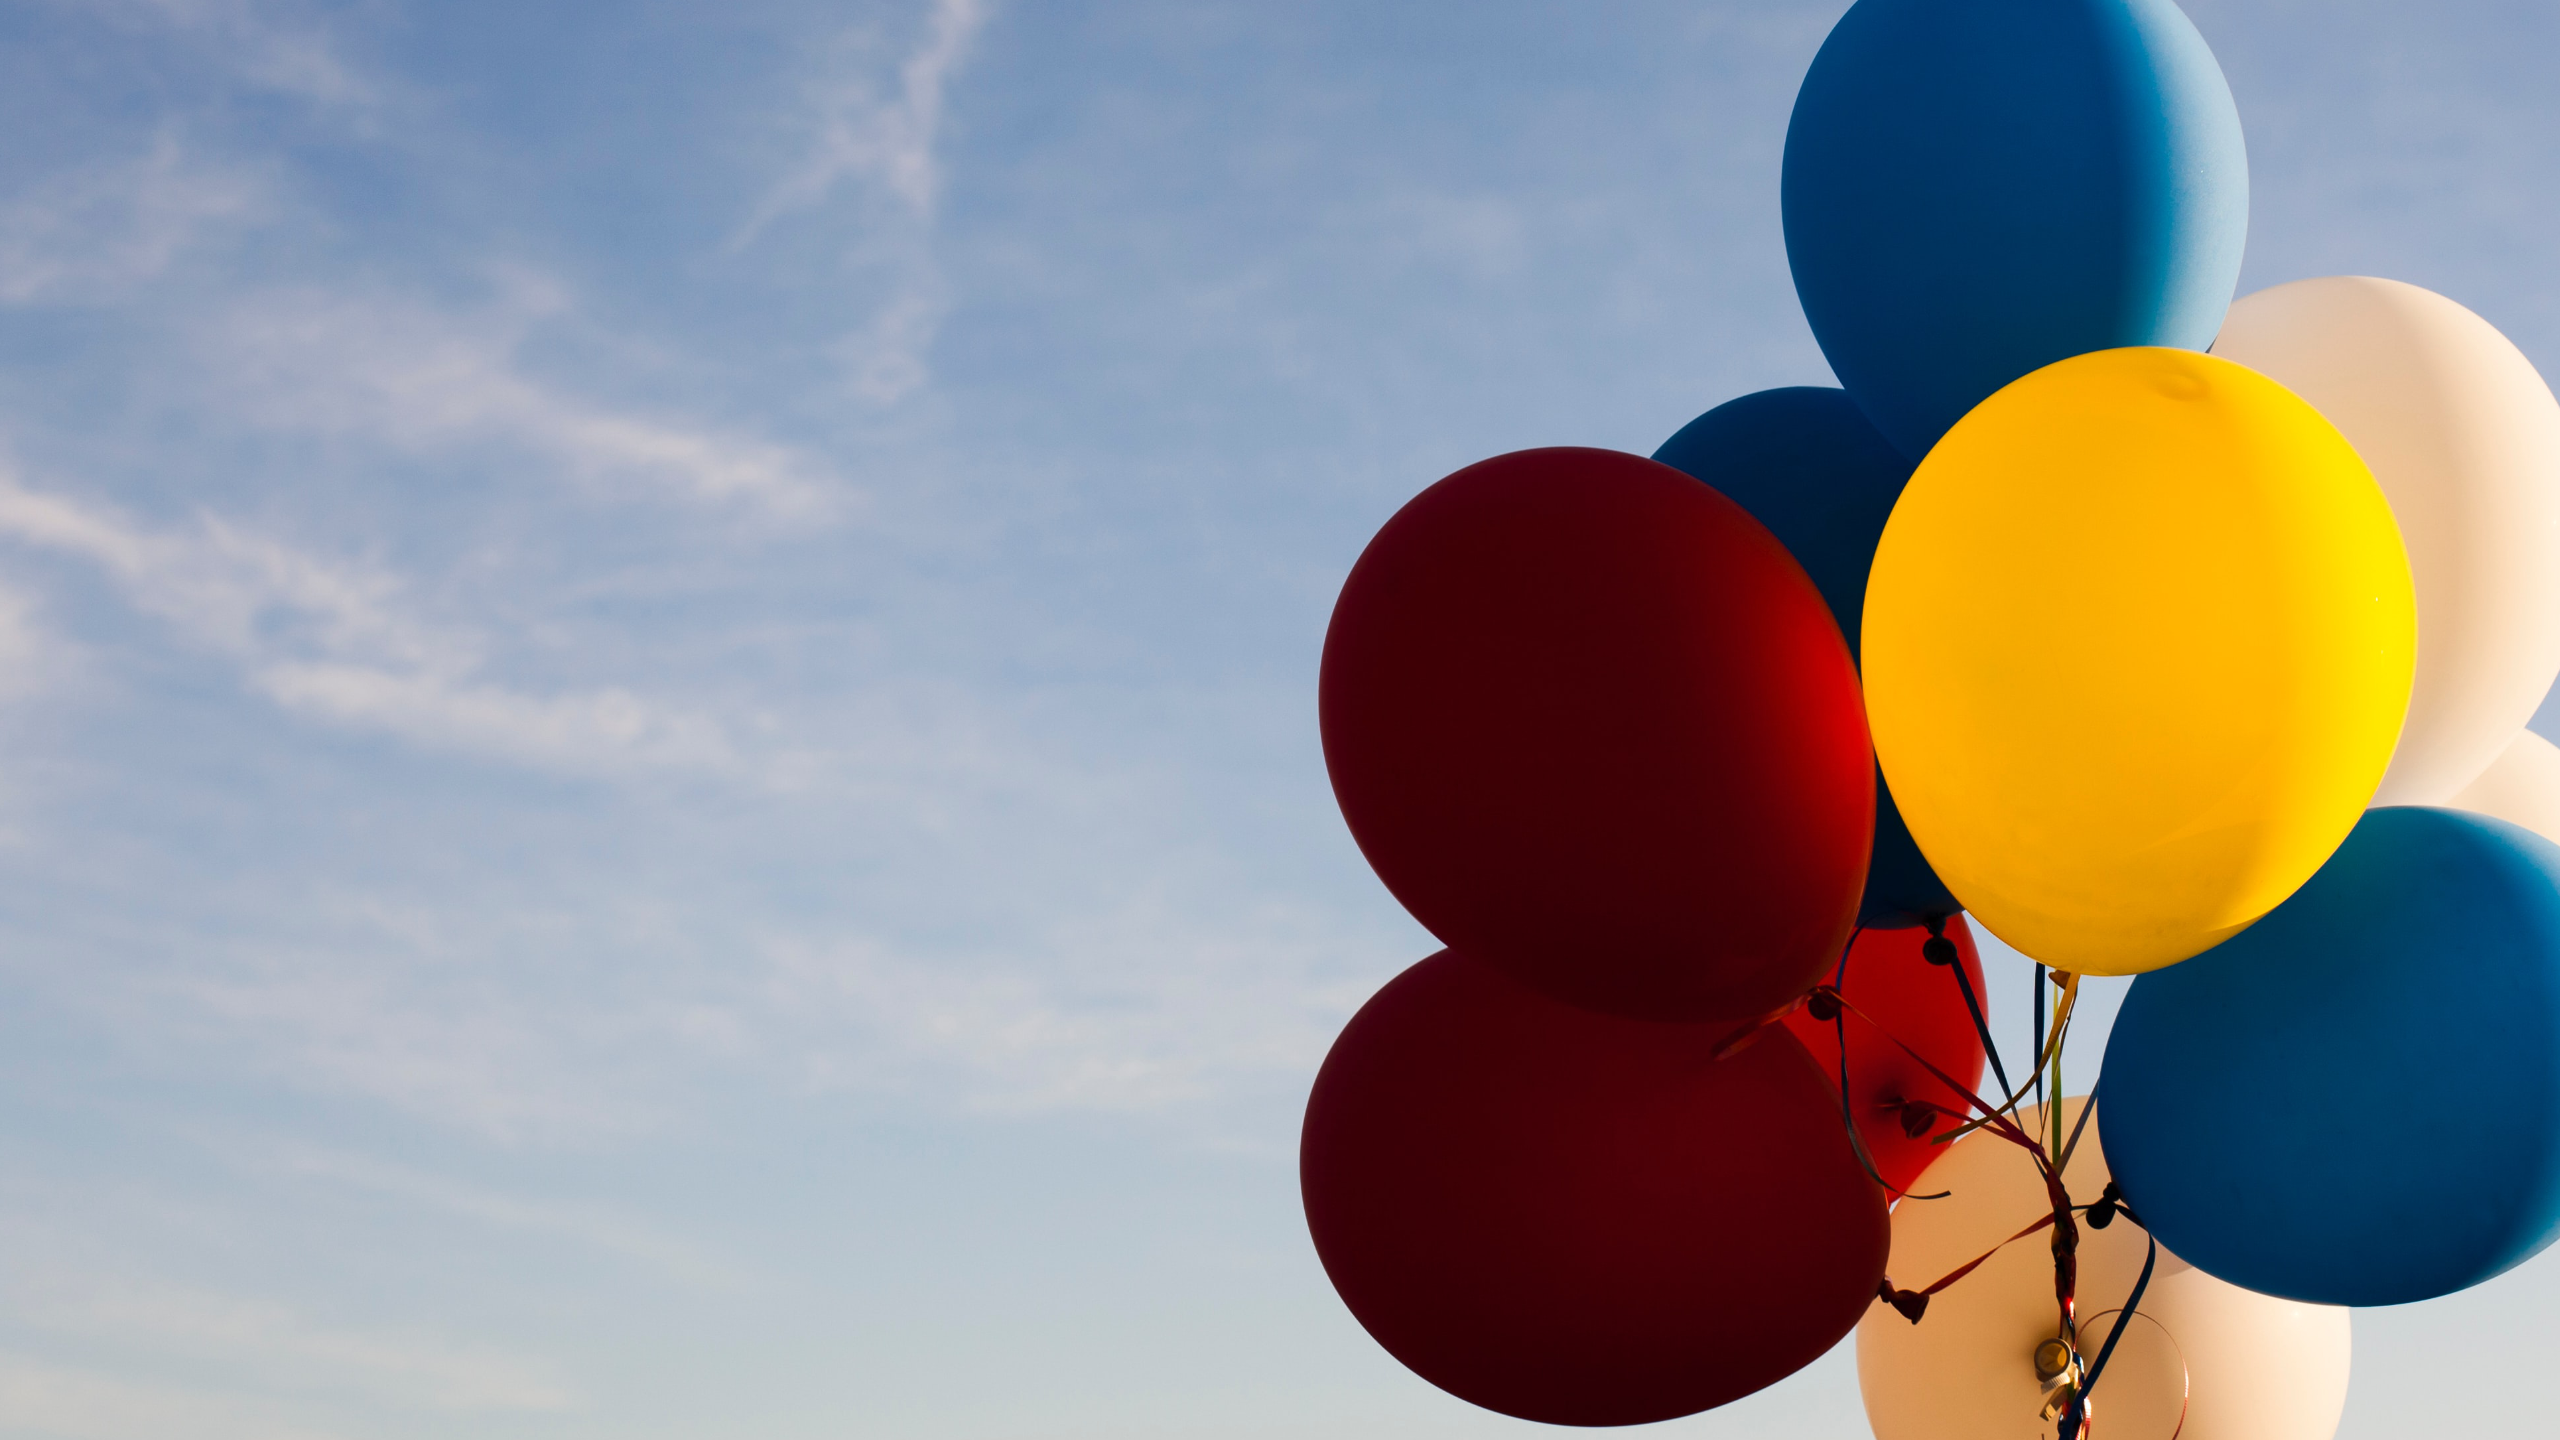
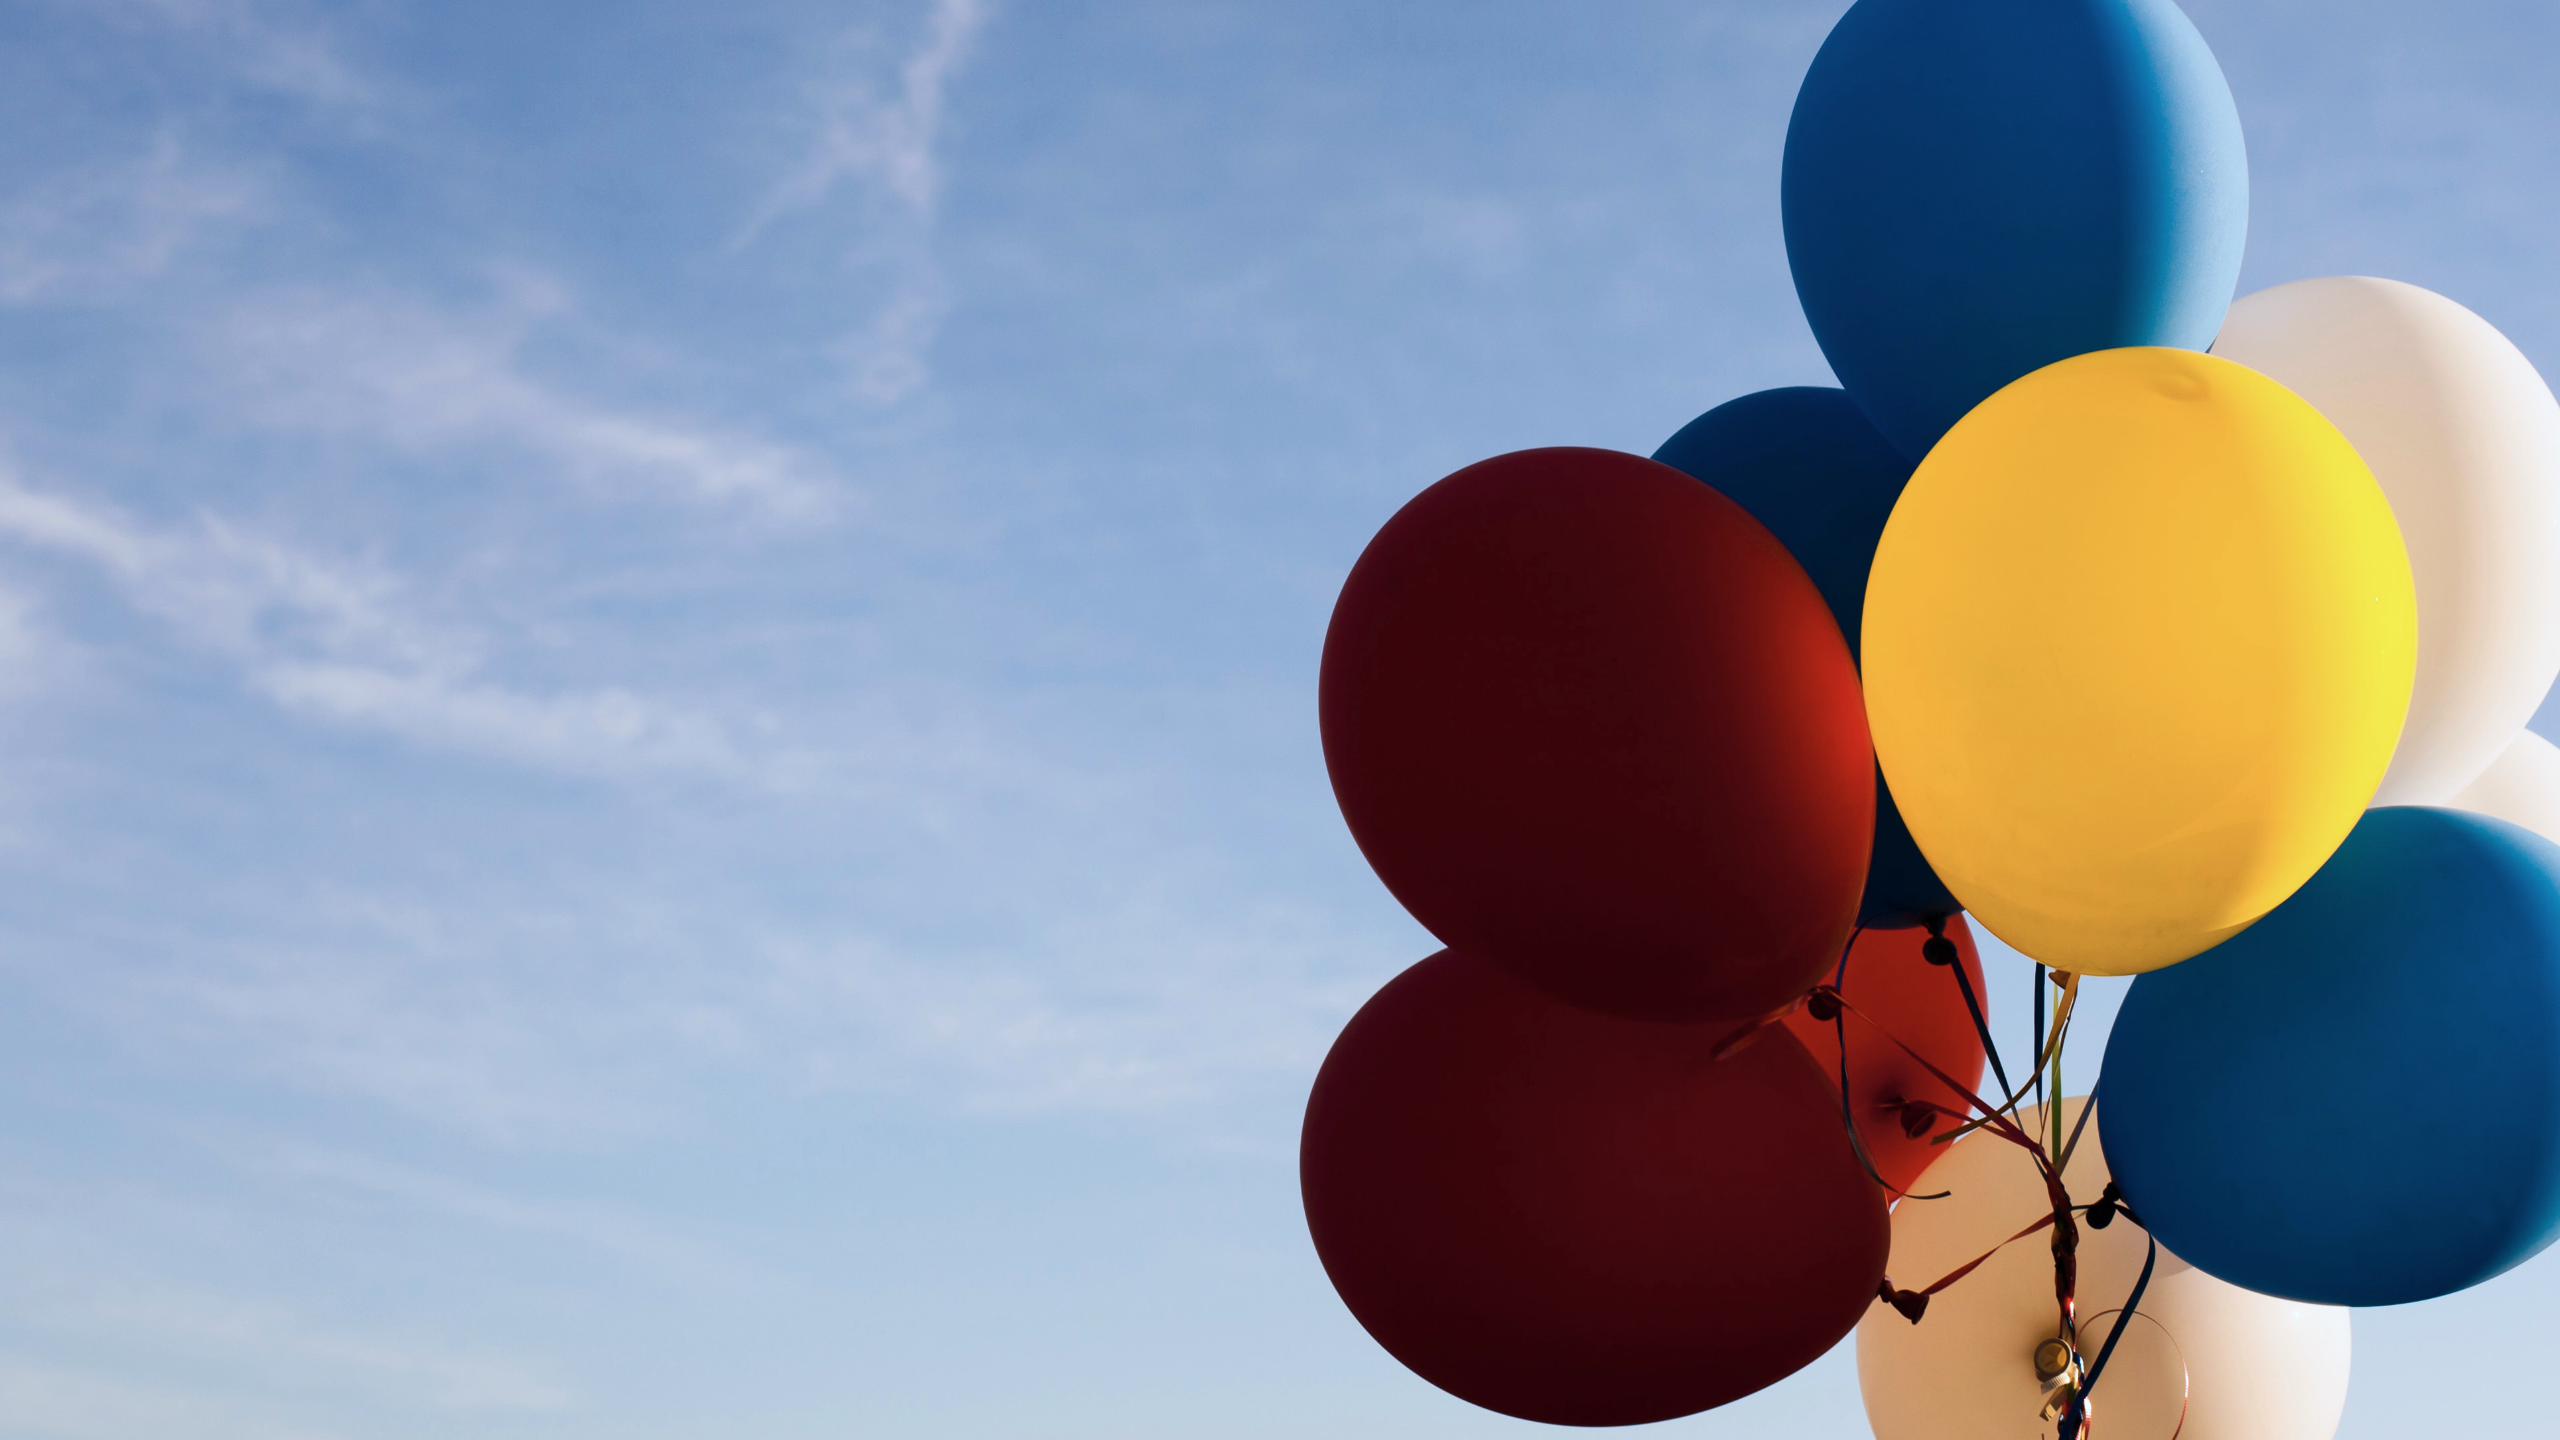
korekce barev pozadí a přidání knížkového pozadí

Changed region(s): [[0.6875, 0.2188, 0.9688, 0.8438]]

diff --git a/dvz-poz-psych/style-pozitivni-psychologie.css b/dvz-poz-psych/style-pozitivni-psychologie.css
@@ -94,15 +94,11 @@ tw-story {
     background-size: cover;
     
     background-image: url("images/sky-balloons.png");
-    /* background-image: url("images/books1.png"); */
-    /* background-image: url("images/books2.png"); */
-    /* background-image: url("images/wall-balloons.png"); */
-    /* background-image: url("images/hot-air-balloon.png"); */
 
     font-family: 'Poppins', sans-serif;
 }
 tw-story[tags ~= "antika"] {
-    background-image: url("images/books-1245690.jpg");
+    background-image: url("images/antiquity-books.png");
 }
 
 tw-passage {
